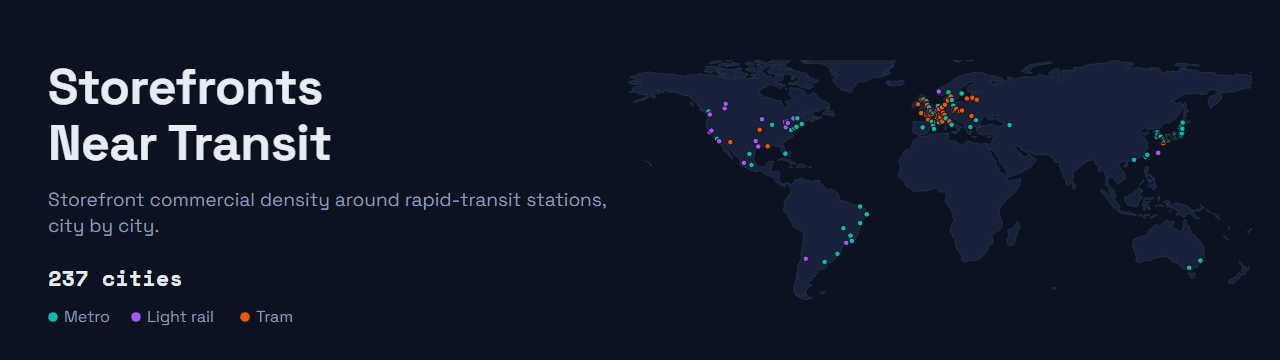
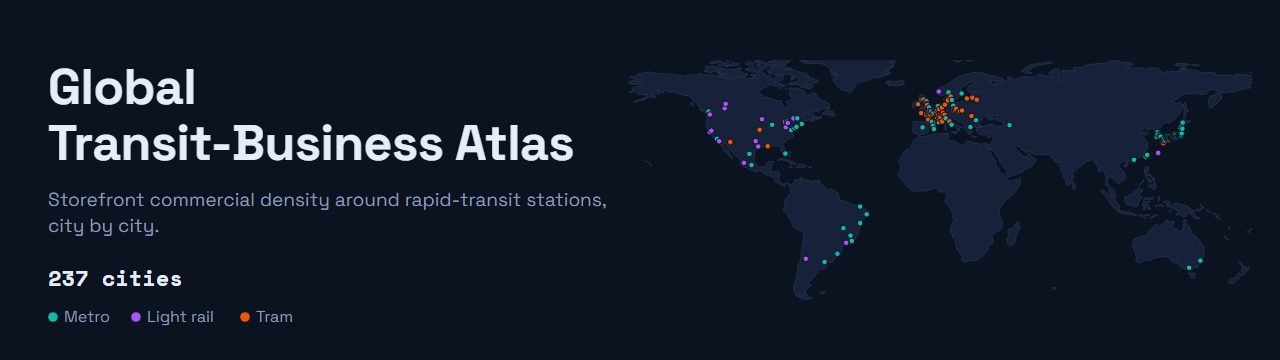
README: header image redrawn with the site's new name and 237 cities; reverse handoff after the push (2026-10-16)
Visuals' gen_repo_images.py and render_repo.ps1 run at 559bf919
(visuals/repo/readme-header.png, copied to docs/assets/).

Changed region(s): [[0.0312, 0.3361, 0.4688, 0.4583], [0.0312, 0.1833, 0.25, 0.3056]]

diff --git a/docs/handoff_reverse_2026-10-18.md b/docs/handoff_reverse_2026-10-18.md
@@ -15,8 +15,12 @@ corrections to it go here.
 - 9db63dca, 7d28ed26, 0ac4e4bc: lanes 3, 1 and 2 merged (with the Japan
   hold on the worship branch tag, the 150 m first-word radius and the search
   control above the layer control). e5345211: search-scope-check merged.
-- Next commit: lane 4's drops and keeps, every index rebuilt, the DECISIONS
-  entry. Then one 237-map render. Nothing pushed.
+- fc6ec797: lane 4's drops and keeps, every index rebuilt, the DECISIONS
+  entry. 559bf919: all 237 maps re-rendered.
+- PUSHED 2026-10-16: origin/master dd621ee3 -> 559bf919 (73 of 73 checks);
+  the owner rebooted the app.
+- After the push (not yet pushed): the README header redrawn with the new
+  name (Visuals' generator at 559bf919).
 
 ## Artifact changes
 None yet.
@@ -72,6 +76,12 @@ None yet.
   Mexico City, already titled Global Transit-Business Atlas.
 
 ## Queue progress
+- LANDED 2026-10-16 in 559bf919: A0, A1, lanes 1 to 4, the scope check.
+- Post-push: the social preview (visuals/repo/social-preview.png) is for
+  the owner to upload on GitHub, along with the About text. The downstream
+  note for Visuals and Analytics is at data/_handoffs/downstream_2026-10-16.md.
+  Transit-globe got the boundaries answer and a senior-to-junior note
+  (data/_handoffs/transit_globe/).
 - A0: code done 2026-10-16 (option B; legend clamp; rights tag approved).
   Render deferred (owner): one pass after A1 and lanes 1 to 3.
 - Lane 2's no-match wording: code done, rides the same render.
